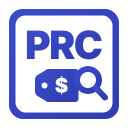
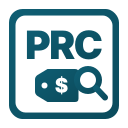
cy-visual: PRC accent to petrol blue #0F5E73
Claude-Session: https://claude.ai/code/session_01N7DEF7CFL57PPiYm4g1pKj

diff --git a/shared/cy-visual/icon-family/tools/export_icons.py b/shared/cy-visual/icon-family/tools/export_icons.py
@@ -19,7 +19,7 @@ SOURCES = {
     "WM": ("CYWatermark", "watermark", "#019EB9"),
     "CVT": ("CYConverter", "converter", "#F09D03"),
     "CAL": ("CYTriplicateCalculator", "tri-invoice-calc", "#FD4944"),
-    "PRC": ("CYPriceDesk", "price-desk", "#3B4CCA"),
+    "PRC": ("CYPriceDesk", "price-desk", "#0F5E73"),
 }
 
 

diff --git a/shared/cy-visual/icon-family/ICON_FAMILY.md b/shared/cy-visual/icon-family/ICON_FAMILY.md
@@ -60,7 +60,7 @@ The current app SVGs preserve the silhouettes from the user-approved visual sour
 | CYWatermark | CYWatermark | `WM` | `#019EB9` | marked document / water drop |
 | SMARTCOPIConverter | CYConverter | `CVT` | `#F09D03` | document conversion |
 | TriINVCalc | CYTriplicateCalculator | `CAL` | `#FD4944` | calculator |
-| CYPriceDesk | CYPriceDesk | `PRC` | `#3B4CCA` | price tag + magnifier |
+| CYPriceDesk | CYPriceDesk | `PRC` | `#0F5E73` | price tag + magnifier |
 
 `WM` supersedes the earlier `WTM` identifier by explicit user decision.
 
@@ -68,7 +68,7 @@ The current app SVGs preserve the silhouettes from the user-approved visual sour
 
 `AutoQ` (CYERPAutoQuery, user-approved 2026-10-16) reuses the `Auto` lettering, frame and accent of CYERPAutoInput and replaces the lower motif with a large `Q`, so the two ERP automation tools read as one pair; they are planned to merge into one program later.
 
-`PRC` (CYPriceDesk, user-approved candidate C 2026-11-16) uses indigo, a hue no existing member uses; the user chose it over magenta because the icon accent is also the app's base UI color. CYPriceDesk is a Cloudflare web app: it uses the SVG and PNG layers as favicon/app icons; the ICO is produced for family consistency only.
+`PRC` (CYPriceDesk, user-approved candidate C 2026-11-16) uses petrol blue: the user chose it (after indigo and magenta) because the icon accent is also the app's base UI color and CYPriceDesk is an independent site that should not read as CY Web's blue `#3D63D2`. It sits in the cyan family with `WM` but is much darker, and avoids the red/green used for price up/down. CYPriceDesk is a Cloudflare web app: it uses the SVG and PNG layers as favicon/app icons; the ICO is produced for family consistency only.
 
 The two horizontal lines are an INV-specific motif, not a universal family mark.
 

diff --git a/shared/cy-visual/icon-family/CHANGELOG.md b/shared/cy-visual/icon-family/CHANGELOG.md
@@ -2,7 +2,7 @@
 
 ## Unreleased
 
-- Added `PRC` for CYPriceDesk (user-approved candidate C, 2026-11-16): indigo `#3B4CCA` accent, outlined `PRC` identifier (Inter Black), price tag with `$` plus magnifier as the lower motif. First web member of the family; exported with `tools/export_icons.py` and every existing app's PNG/ICO bytes were reproduced unchanged.
+- Added `PRC` for CYPriceDesk (user-approved candidate C, 2026-11-16): petrol-blue `#0F5E73` accent (indigo `#3B4CCA` was replaced before merge so the independent site does not read as CY Web blue), outlined `PRC` identifier (Inter Black), price tag with `$` plus magnifier as the lower motif. First web member of the family; exported with `tools/export_icons.py` and every existing app's PNG/ICO bytes were reproduced unchanged.
 - Added `AutoQ` for CYERPAutoQuery (user-approved 2026-10-16): CYERPAutoInput's `Auto` lettering, frame and `#FE6A02` accent with a large `Q` as the lower motif. Exported with the existing `tools/export_icons.py`; every existing app's PNG/ICO bytes were reproduced unchanged.
 - Consolidated family documentation into `README.md`, `ICON_FAMILY.md`, and `CHANGELOG.md`.
 - Removed the standalone creation brief and standalone version file.
